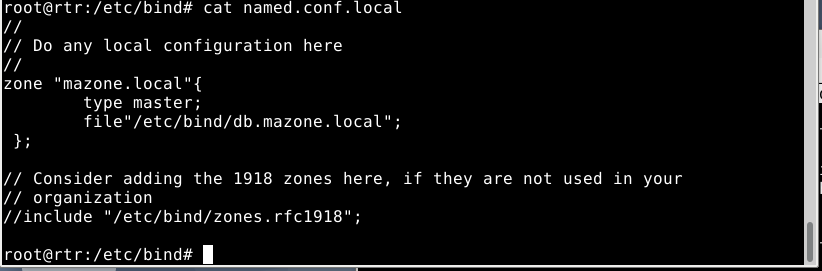
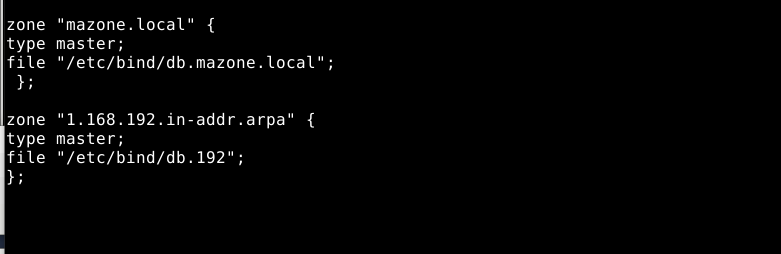
Serveur DNS

Changed region(s): [[0.0, 0.0, 1.0, 1.0]]

diff --git a/Serveur Dns LINUX/README.md b/Serveur Dns LINUX/README.md
@@ -1,18 +1,13 @@
 # Serveur Dns Linux
 
-1 . Mise en place :
 ## Objectifs : Gérer un domaine et ses enregistrements. Comprendre le fonctionnement des outils de tests DNS.
+
+1 .  <u>Mise en place</u> :
 
 Pour le serveur Dns Linux il est nécessaire d'installer les paquets bind 9 & bind 9doc.
 
-Pour la configuration des requêtes Dns sur un serveur Dns dans le fichier   /etc/resolv.conf de mon serveur :
 
-![resolvconf.PNG](resolvconf.PNG)
-
-Pour les clients :
-
-![resolvconf2.PNG](resolvconf2.PNG)
-2. <u>Configuration de base pour votre zone Dns</u> :
+2 . <u>Configuration de base pour votre zone Dns</u> :
 
 Les fichiers de configuration DNS sont situés dans le répertoire /etc/bind. Le fichier de configuration de base est /etc/bind/named.conf.
 
@@ -22,11 +17,11 @@ La ligne include spécifie le nom du fichier contenant les options DNS.
 
 /etc/bind/named.conf.options indique au DNS où chercher les fichiers. Tous les fichiers utilisés par BIND seront relatifs à ce répertoire.
 
-Je vais déclarer mon réseau lan dans mon le fichier named.conf :
+Dans le fichier named.conf est spécifié où le serveur Dns doit récuperer les zones /etc/bind/named.conf.local :
 
 ![namedconf2.PNG](namedconf2.PNG)
 
-Ensuite j'accepte les requêtes pour réseau interne dans le fichier named.conf.option :
+Pour éviter tous problèmes avec l'ipv6 dans  le fichier named.conf.option à listen-on-v6 j'ajoute entre les accolades ::1; :
 
 ![options.PNG](options.PNG)
 
@@ -36,9 +31,9 @@ Ensuite j'accepte les requêtes pour réseau interne dans le fichier named.conf.
 
 * option file, pour indiquer l’emplacement du fichier de zone correspondant à mon domaine DNS. . Par défaut dans /var/cache/bind
 
-mazone.local
+### mazone.local
 
-Dans mon fichier de configuration de base named.conf.local :
+Dans mon fichier de configuration de base named.conf.local je définis mes zones :
 
 
 ![namedconf.PNG](namedconf.PNG)
@@ -47,10 +42,49 @@ Dans mon fichier de zone db.mazone.local :
 
 ![mazone.PNG](mazone.PNG)
 
-j'ai ajouté un enregistrement de type A rtr qui est mon routeur et mon serveur DNS.
+j'ai ajouté des enregistrements de type A, ex : rtr qui est mon routeur et mon serveur DNS.
 
-Après cela je redémmare le service bind9 avec la commande systemctl restart bind9
+Après cela je redémmare le service bind9 avec la commande systemctl restart bind9.
 
 Je vais ensuite configurer la zone inverse :
 
 ![db192.PNG](db192.PNG)
+
+Pour la configuration des requêtes Dns sur un serveur Dns dans le fichier   /etc/resolv.conf de mon serveur :
+
+![resolvconf.PNG](resolvconf.PNG)
+
+Pour les clients :
+
+![resolvconf2.PNG](resolvconf2.PNG)
+
+Pour que mes configurations soient prises en compte je relance service bind9 :
+
+systemctl restart bind9
+
+Test ping nom de machine du client 1 depuis le routeur(serveurDns) :
+
+![ping1.PNG](ping1.PNG)
+
+ping client 1 vers client2 :
+
+![ping2.PNG](ping2.PNG)
+
+
+nslookup est un outil en ligne de commande simple mais très pratique qui est principalement utilisé pour trouver l’adresse IP d’un hôte spécifique ou le nom de domaine d’une adresse IP spécifique (recherche DNS inverse).
+
+Nous pouvons aussi verifier son fonctionnement en testant les enregistrements avec nslookup :
+
+rtr :
+
+![nslookup1.PNG](nslookup1.PNG)
+
+client 2 :
+
+![nslookup2.PNG](nslookup2.PNG)
+
+
+Par défaut, mes machines lorsqu'elles ne connaissent pas un nom de domaine. La requête sera renvoyé vers le serveur dns de ma machine local qui transmettra cette requête à mon Fai si il ne l'a pas en cache.
+
+Pour faire évoluer, mon serveur DNS je lui rajouterais une zone secondaire.
+

diff --git a/README.md b/README.md
@@ -5,3 +5,5 @@ I. Routage Linux.
 II. La résolution de noms : service DNS.
 
 III. Serveur DNS LINUX
+
+IV. Serveur DHCP
